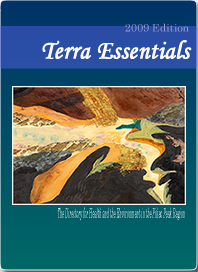
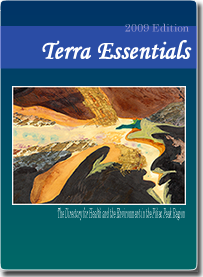
Further integration of new theme

diff --git a/public/stylesheets/t-e.css b/public/stylesheets/t-e.css
@@ -46,6 +46,31 @@ div#ad_sidebar {
   width: 256px;
 }
 
+div.purple_buttons {
+  float: right;
+  width: 200px;
+  padding: 0;
+  margin: 0;
+}
+
+div.purple_buttons h1 {
+  margin: 0 auto;
+  text-align: center;
+  
+}
+
+
+
+div.purple_button {
+  width: 101px;
+  height: 47px;
+  margin: 3px auto 0 auto;
+  color: #fff;
+  text-align: center;
+  font-size: 95%;
+  background: url('/images/te-theme3/purpleButton.png') no-repeat;
+}
+
 div.blue_ad {
   width: 240px;
   background: url('/images/te-theme/blue-background.png') repeat-x;
@@ -143,8 +168,10 @@ div#cover2009 {
 
 div#cover2010, div#cover2009 {
   background-position: top center;
-  width: 198px;
+  width: 203px;
   height: 100%;
+  margin-top: -20px;
+  padding-bottom: 20px;
   margin-right: 20px;
   margin-left: 20px;
   float: left;
@@ -188,6 +215,27 @@ div.main_content_bottom {
   padding-top: 0;
   margin-top: 0;
   height: 24px;
+}
+
+ul.dropdown {
+  position: absolute;
+  left: -100px;
+  float: right;
+  border-left: 1px solid #ccc;
+  border-right: 1px solid #ccc;
+  border-bottom: 1px solid #ccc;
+  background-color: #eee;
+  width: 100px;
+}
+
+ul.dropdown li {
+  border-top: 1px solid #ccc;
+  margin: 0;
+  width: 100px;
+  padding: 0;
+  list-style-type: none;
+  list-style-position: inside;
+  left: -20px;
 }
 
 div.main_content h1 {

diff --git a/app/helpers/main_helper.rb b/app/helpers/main_helper.rb
@@ -5,4 +5,23 @@ module MainHelper
     u = 'http://' + u unless u[0..6] == 'http://'
     "<a href=\"#{u}\">#{u}</a>"
   end
+  
+  def generate_dropdown_js(id)
+		#" onfocus=\"Effect.Appear('dropdown_#{id}', { duration: 0.8 });\"" +
+    " onmouseover=\"Effect.Appear('dropdown_#{id}', { duration: 0.8 });\"" + 
+	  " onmouseout=\"Effect.Fade('dropdown_#{id}', { duration: 0.8 });\"" +
+	  " onblur=\"Effect.Fade('dropdown_#{id}', { duration: 0.8 });\""
+	end
+  
+  def generate_dropdown(title, link, id, link_list)
+	  "<div " + generate_dropdown_js(id) + "><li>" + 
+	  "<a href=\"#{link}\">#{title}</a></li>" + 
+	  "<ul id=\"dropdown_#{id}\" class=\"dropdown\" style=\"display: none\">" +
+	  link_list.collect {|l| "<li>#{l}</li>" }.join('') +
+	  "</ul></div>"
+  end
+  
+  def generate_dropdown_for(category)
+    generate_dropdown(category.name, url_for(:action => "show_category", :id => category.id), category.id, category.subcategories)
+  end
 end
